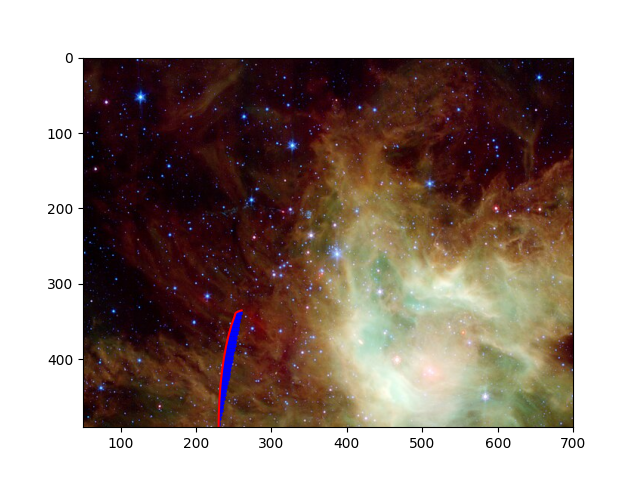
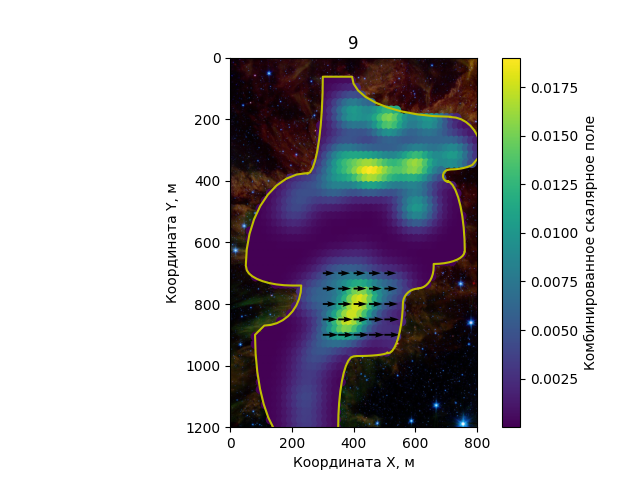
zzzzzzzzzzzzzzzzzzzzzzzzzzzzzzzzzzzzzzzzzz1111111111

diff --git a/NGC_2264.py b/NGC_2264.py
@@ -9,16 +9,114 @@ fig, ax = plt.subplots()
 
 ax.imshow(img)
 
-t1 = np.linspace(np.pi, 3*np.pi/2.3, 10)
-x1 = 280 + 50 * np.cos(t1)
-y1 = 490 + 180 * np.sin(t1)
+t1 = np.linspace(np.pi, 3*np.pi/2, 10)
+x1 = 400 + 50 * np.cos(t1)
+y1 = 1200 + 230 * np.sin(t1)
 
-t2 = np.linspace(np.pi, 3*np.pi/2.65, 10)
-x2 = 352 + 100 * np.cos(t2)
-y2 = 340 + 12 * np.sin(t2)
+t2 = np.linspace(np.pi/2, 0, 10)
+x2 = 410 + 100 * np.cos(t2)
+y2 = 957 + 12 * np.sin(t2)
 
 x = np.append(x1, x2)
 y = np.append(y1, y2)
+
+t3 = np.linspace(np.pi/2, np.pi/13, 10)
+x3 = 511 + 50 * np.cos(t3)
+y3 = 770 + 190 * np.sin(t3)
+
+x = np.append(x, x3)
+y = np.append(y, y3)
+
+t4 = np.linspace(np.pi, 3*np.pi/2, 10)
+x4 = 610 + 50*np.cos(t4)
+y4 = 800 + 50*np.sin(t4)
+
+x = np.append(x, x4)
+y = np.append(y, y4)
+
+t5 = np.linspace(np.pi/2, 0, 10)
+x5 = 610 + 50*np.cos(t5)
+y5 = 679 + 70*np.sin(t5)
+
+x = np.append(x, x5)
+y = np.append(y, y5)
+
+t6 = np.linspace(np.pi/2, 0, 10)
+x6 = 660 + 100*np.cos(t6)
+y6 = 630 + 40*np.sin(t6)
+
+x = np.append(x, x6)
+y = np.append(y, y6)
+
+t7 = np.linspace(2*np.pi, 3*np.pi/2, 10)
+x7 = 701 + 60*np.cos(t7)
+y7 = 630 + 230*np.sin(t7)
+
+x = np.append(x, x7)
+y = np.append(y, y7)
+
+t8 = np.linspace(np.pi/2, 3*np.pi/2, 10)
+x8 = 710 + 20*np.cos(t8)
+y8 = 384 + 20*np.sin(t8)
+
+x = np.append(x, x8)
+y = np.append(y, y8)
+
+t9 = np.linspace(np.pi/2, np.pi/4, 10)
+x9 = 715 + 100*np.cos(t9)
+y9 = 313 + 50*np.sin(t9)
+
+x = np.append(x, x9)
+y = np.append(y, y9)
+
+t10 = np.linspace(2*np.pi, 3*np.pi/2, 10)
+x10 = 715 + 100*np.cos(t10)
+y10 = 313 + 120*np.sin(t10)
+
+x = np.append(x, x10)
+y = np.append(y, y10)
+
+t11 = np.linspace(np.pi/2, np.pi, 10)
+x11 = 715 + 320*np.cos(t11)
+y11 = 62 + 130*np.sin(t11)
+
+x = np.append(x, x11)
+y = np.append(y, y11)
+
+t12 = np.linspace(0, np.pi/2, 10)
+x12 = 250 + 50*np.cos(t12)
+y12 = 62 + 315*np.sin(t12)
+
+x = np.append(x, x12)
+y = np.append(y, y12)
+
+t13 = np.linspace(3*np.pi/2, np.pi, 10)
+x13 = 250 + 200*np.cos(t13)
+y13 = 675 + 300*np.sin(t13)
+
+x = np.append(x, x13)
+y = np.append(y, y13)
+
+t14 = np.linspace(np.pi, np.pi/2, 10)
+x14 = 201 + 150*np.cos(t14)
+y14 = 680 + 60*np.sin(t14)
+
+x = np.append(x, x14)
+y = np.append(y, y14)
+
+t15 = np.linspace(0, np.pi/2, 10)
+x15 = 110 + 120*np.cos(t15)
+y15 = 740 + 130*np.sin(t15)
+
+x = np.append(x, x15)
+y = np.append(y, y15)
+
+t16 = np.linspace(np.pi, np.pi/2, 10)
+x16 = 200 + 120*np.cos(t16)
+y16 = 900 + 350*np.sin(t16)
+
+x = np.append(x, x16)
+y = np.append(y, y16)
 
 spline_coords, figure_spline_part = interpolate.splprep([x, y], s=0)
 spline_curve = interpolate.splev(figure_spline_part, spline_coords)
@@ -28,18 +126,65 @@ for i in range(len(spline_curve[0])):
     curve_coords.append([spline_curve[0][i], spline_curve[1][i]])
     
 polygon = geom.Polygon(curve_coords)
-points_number_per_side = 400
+points_number_per_side = 50
 
-x_pictures_limits = [200, 600]
-y_pictures_limits = [0, 700]
+x_pictures_limits = [0, 800]
+y_pictures_limits = [0, 1200]
+
+points_coords = []
 
 for x_point_coord in np.linspace(*x_pictures_limits, points_number_per_side):
     for y_point_coord in np.linspace(*y_pictures_limits, points_number_per_side):
         p = geom.Point(x_point_coord, y_point_coord)
         if p.within(polygon):
             plt.plot(x_point_coord, y_point_coord, 'bo', ms = 0.5)
+            points_coords.append(x_point_coord)
+            points_coords.append(y_point_coord)
 
-plt.plot(spline_curve[0], spline_curve[1], 'r')
-plt.ylim(490, 0)
-plt.xlim(50, 700)
+x_p = np.array(points_coords[0::2])
+y_p = np.array(points_coords[1::2])
+
+def bell_function(x, y, intensity=1, dec_rate=[0.5, 0.5]):
+    scalar_func = intensity * np.exp(- dec_rate[0]*x**2 - dec_rate[1]*y**2) 
+    return scalar_func
+
+intensity_centerums_x = [300, 350, 390, 430, 280, 430, 350, 530, 530, 260, 250, 250, 210, 240, 340, 370, 450, 520, 610, 730, 610, 520, 400, 650]
+intensity_centerums_y = [940, 880, 860, 780, 780, 680, 715, 750, 900, 1000, 1200, 1100, 500, 430, 410, 330, 370, 370, 350, 320, 490, 200, 180, 200]
+intensity_values = [0.7, 0.9, 2.5, 3, 1, 0.5, 1, 1, 0.5, 0.5, 0.6, 0.7, 0.6, 0.65, 1.3, 1.7, 3, 1.7, 3, 2, 2, 3, 2, 2]
+
+def scalar_function(x, y, int_cen_x, int_cen_y, int_vel):
+    scalar_field = 0
+    for i in range(0, len(int_cen_x)):
+        scalar_field += int_vel[i] * bell_function(x-int_cen_x[i], y-int_cen_y[i], 0.005, [0.00025, 0.00025])
+    return scalar_field
+
+scalar_fields = []
+for i in range(0, len(x_p)):
+    calculate = scalar_function(x_p[i], y_p[i], intensity_centerums_x, intensity_centerums_y, intensity_values)
+    scalar_fields.append(calculate)
+
+fig, ax = plt.subplots()
+
+ax.imshow(img)
+sc_plot = ax.scatter(x_p, y_p, c=scalar_fields)
+plt.plot(spline_curve[0], spline_curve[1], 'y')
+ax.set_ylabel('Координата Y, м')
+ax.set_xlabel('Координата X, м')
+
+cbar = fig.colorbar(sc_plot)
+cbar.set_label("Комбинированное скалярное поле")       
+
+x,y = np.meshgrid(np.linspace(300, 500, 5), np.linspace(700,900,5))
+
+u = 100 *(-y/np.sqrt(x**2 + y**2) + y)
+v = 100 *(x/np.sqrt(x**2 + y**2))
+
+
+plt.quiver(x,y,u,v)
+
+
+plt.title('9')
+plt.ylim(1200, 0)
+plt.xlim(0, 800)
 plt.savefig('NGC_2264.png')
+
